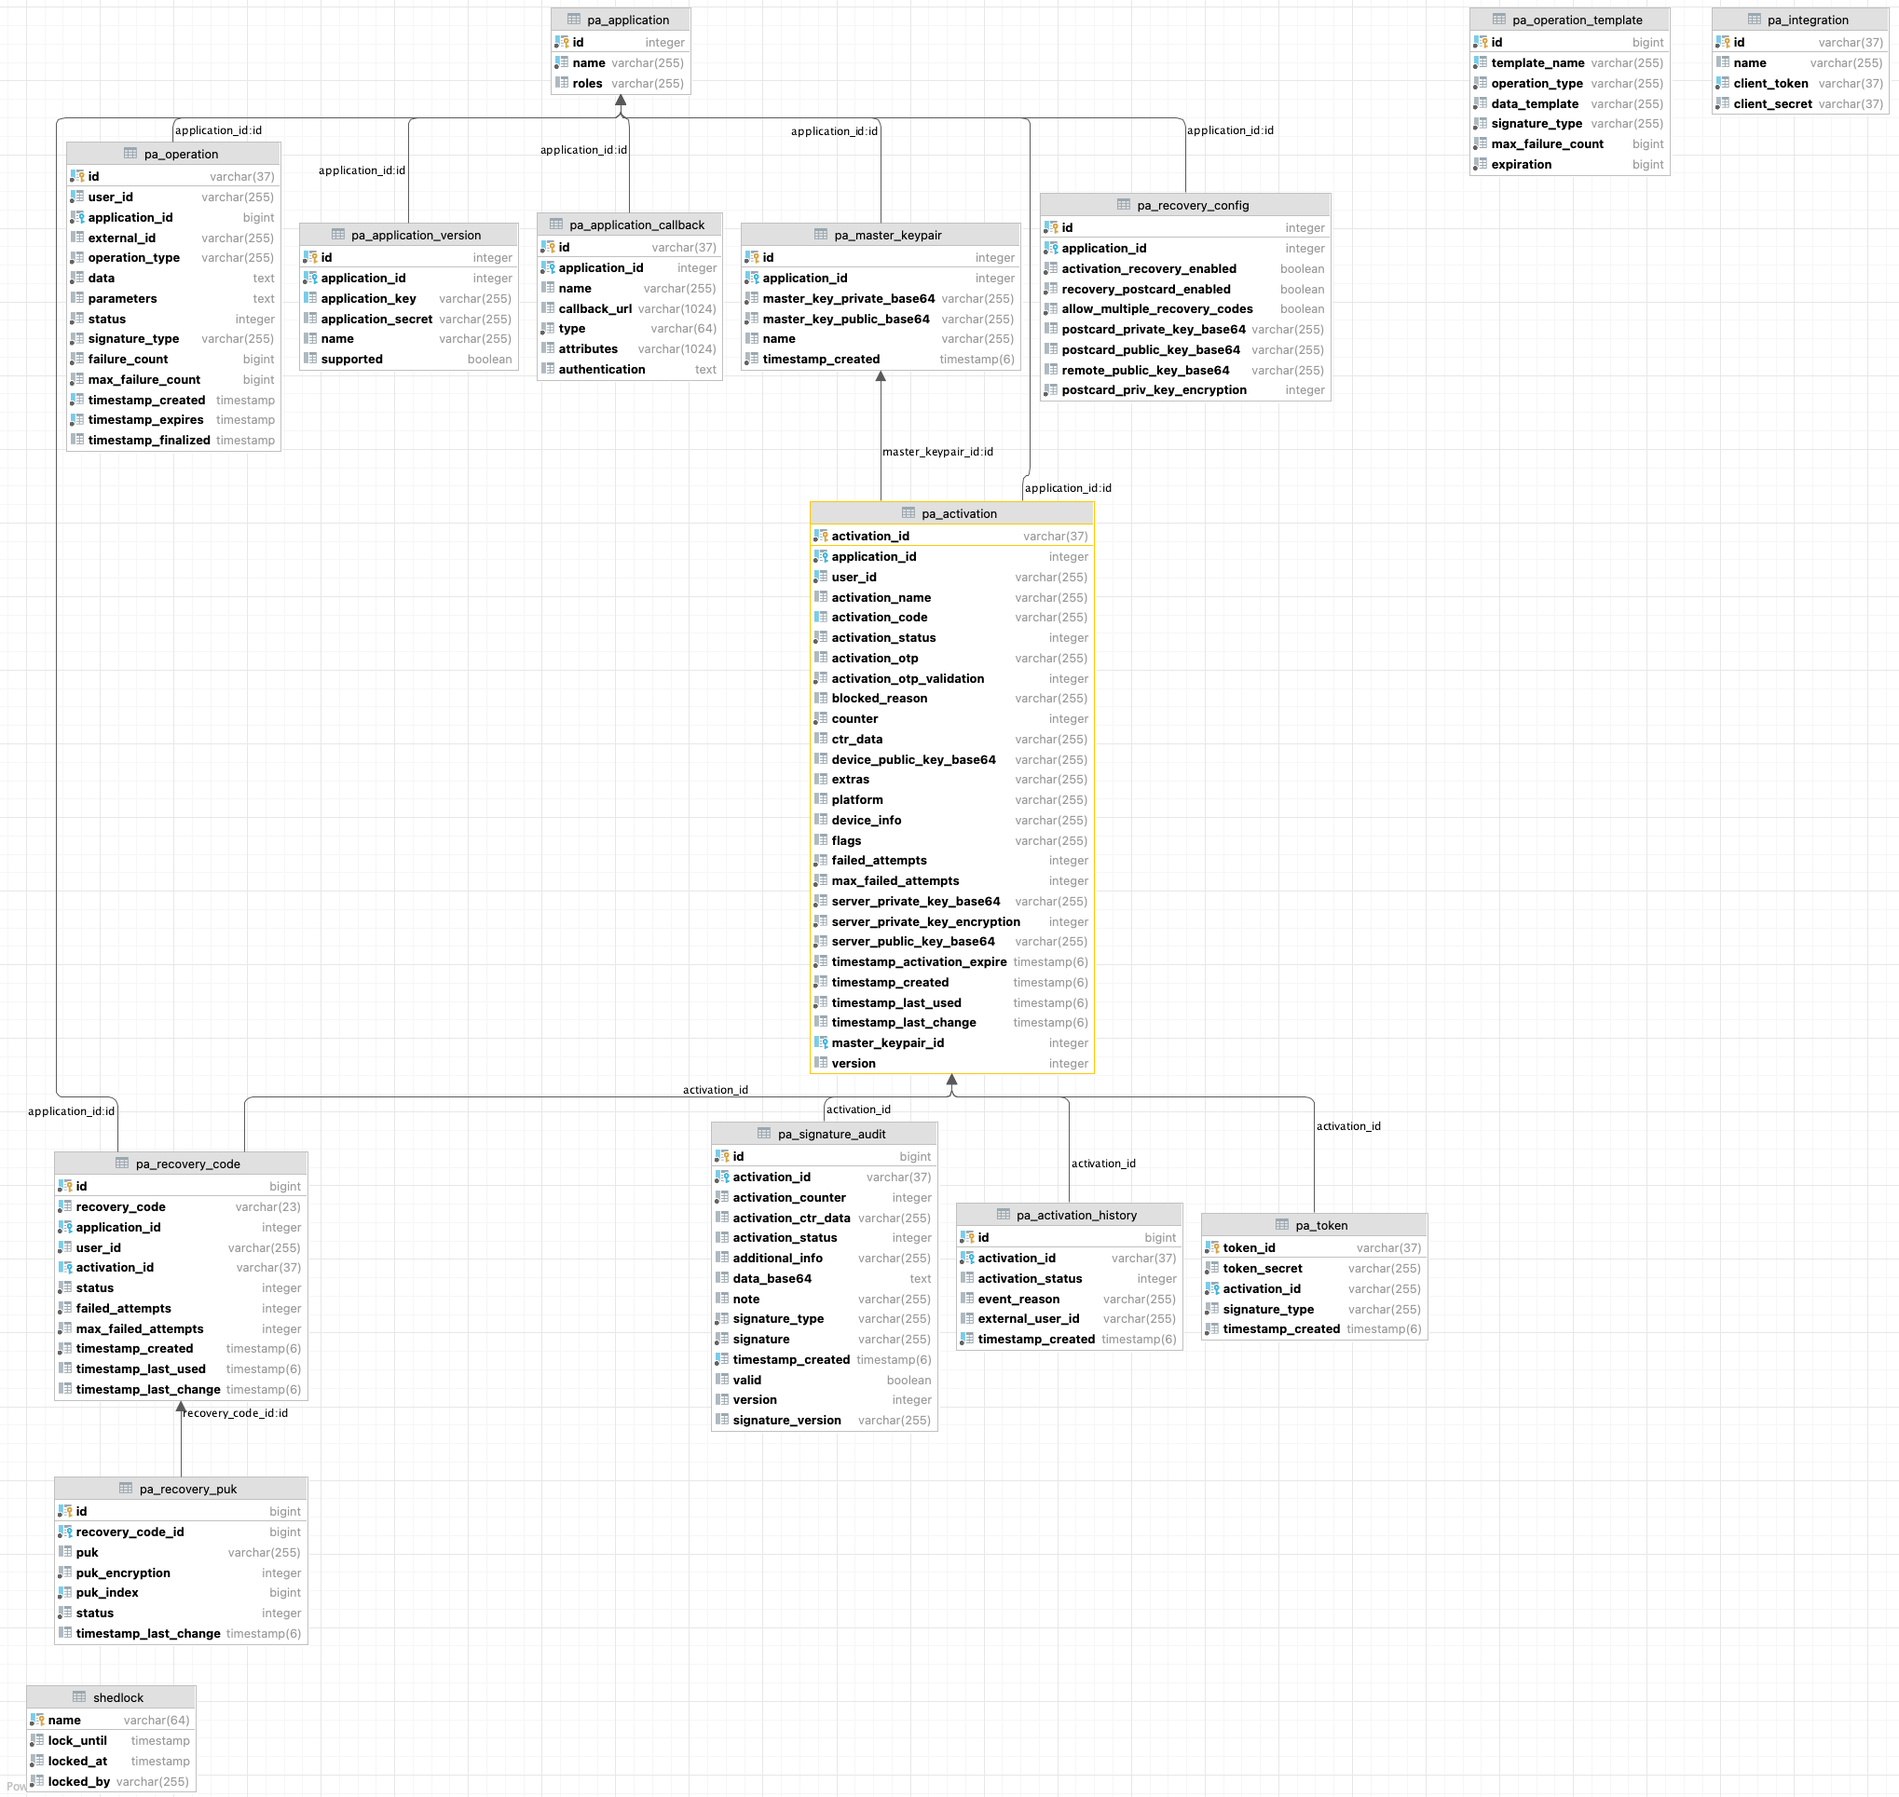
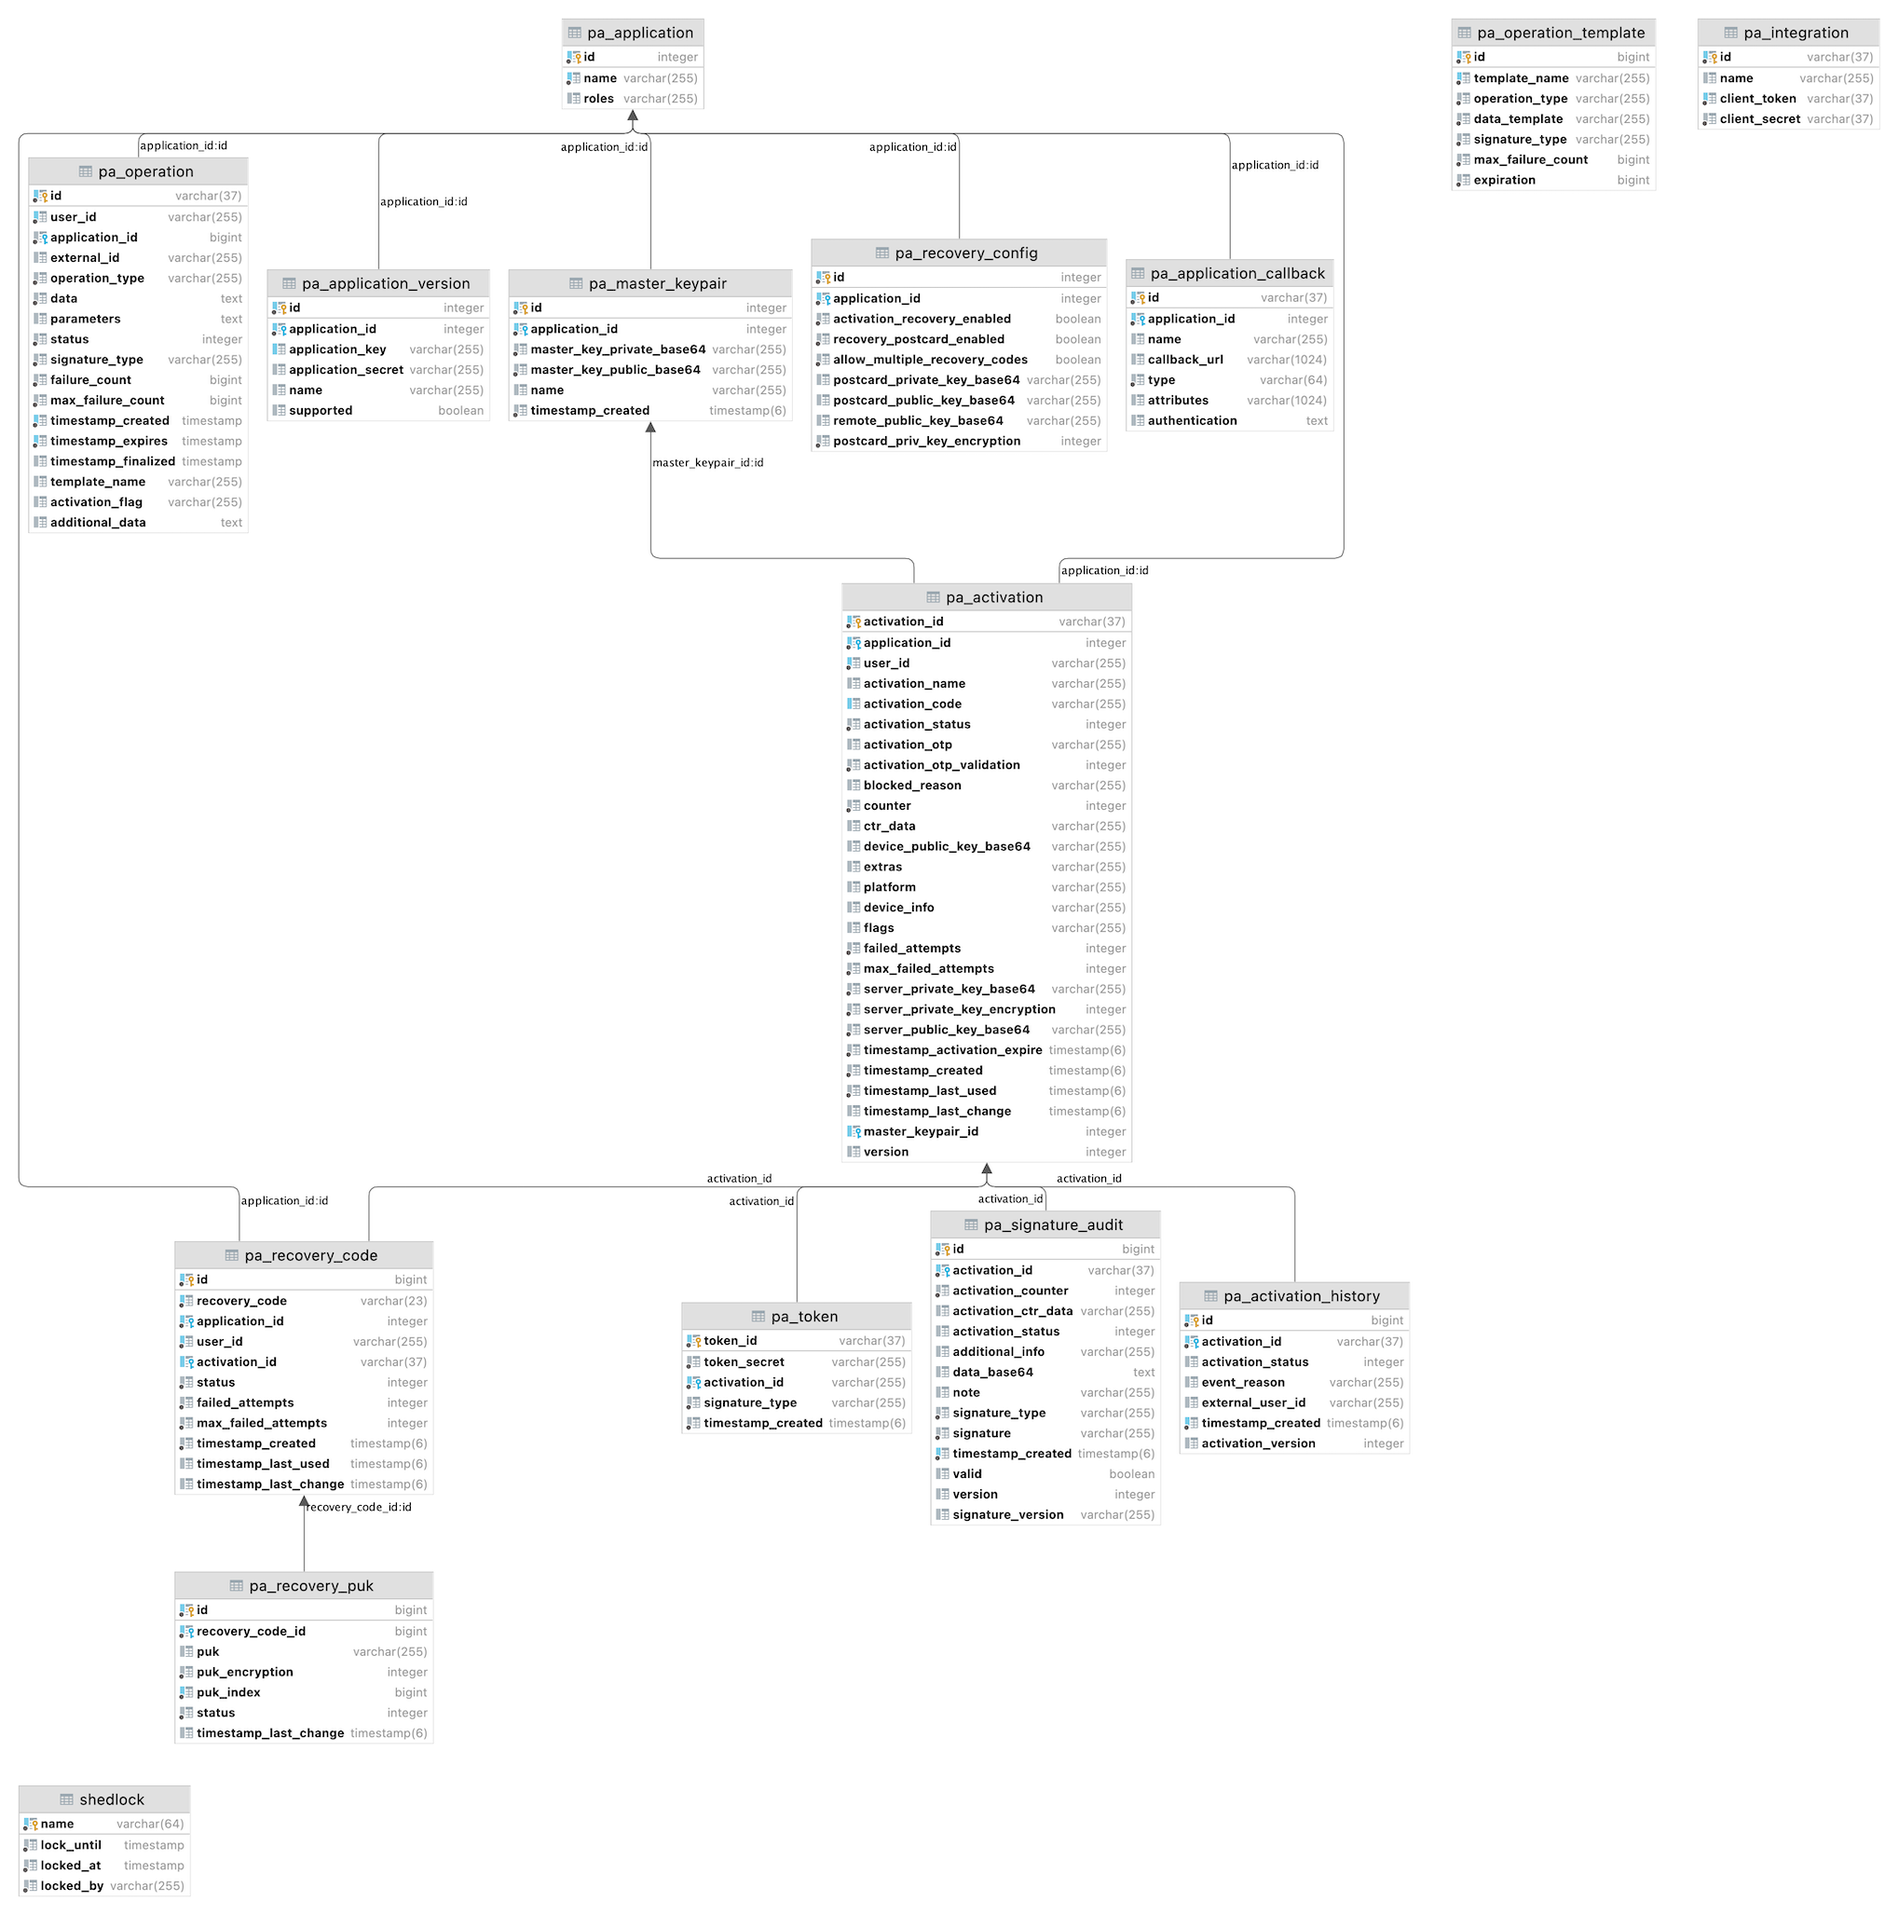
Add audit of the activation version in table pa_activation_history
Fixes #501

diff --git a/powerauth-java-server/src/main/java/io/getlime/security/powerauth/app/server/database/model/entity/ActivationHistoryEntity.java b/powerauth-java-server/src/main/java/io/getlime/security/powerauth/app/server/database/model/entity/ActivationHistoryEntity.java
@@ -60,7 +60,13 @@ public class ActivationHistoryEntity implements Serializable {
     private Date timestampCreated;
 
     /**
-     * Default constructor.
+     * Current {@link ActivationRecordEntity#getVersion()} specified whenever an activation history event is audited.
+     */
+    @Column(name = "activation_version")
+    private Integer activationVersion;
+
+    /**
+     * No-arg constructor.
      */
     public ActivationHistoryEntity() {
     }
@@ -71,14 +77,21 @@ public class ActivationHistoryEntity implements Serializable {
      * @param id                Signature audit item record ID.
      * @param activation        Associated activation, or null of no related activation was found.
      * @param activationStatus  Activation status at the time of signature computation attempt.
-     * @param timestampCreated  Created timestapm.
+     * @param timestampCreated  Created timestamp.
+     * @param activationVersion Activation version.
      */
-    public ActivationHistoryEntity(Long id, ActivationRecordEntity activation, ActivationStatus activationStatus, Date timestampCreated) {
-        super();
+    public ActivationHistoryEntity(
+            final Long id,
+            final ActivationRecordEntity activation,
+            final ActivationStatus activationStatus,
+            final Date timestampCreated,
+            final Integer activationVersion) {
+
         this.id = id;
         this.activation = activation;
         this.activationStatus = activationStatus;
         this.timestampCreated = timestampCreated;
+        this.activationVersion = activationVersion;
     }
 
     /**
@@ -185,6 +198,22 @@ public class ActivationHistoryEntity implements Serializable {
         this.timestampCreated = timestampCreated;
     }
 
+    /**
+     * Get PowerAuth protocol major version for activation.
+     * @return PowerAuth protocol major version.
+     */
+    public Integer getActivationVersion() {
+        return activationVersion;
+    }
+
+    /**
+     * Set PowerAuth protocol major version for activation.
+     * @param version PowerAuth protocol major version.
+     */
+    public void setActivationVersion(Integer version) {
+        this.activationVersion = version;
+    }
+
     @Override
     public int hashCode() {
         int hash = 7;
@@ -193,6 +222,7 @@ public class ActivationHistoryEntity implements Serializable {
         hash = 23 * hash + Objects.hashCode(this.eventReason);
         hash = 23 * hash + Objects.hashCode(this.externalUserId);
         hash = 23 * hash + Objects.hashCode(this.timestampCreated);
+        hash = 23 * hash + Objects.hashCode(this.activationVersion);
         return hash;
     }
 
@@ -220,14 +250,18 @@ public class ActivationHistoryEntity implements Serializable {
         if (!Objects.equals(this.externalUserId, other.externalUserId)) {
             return false;
         }
-        return Objects.equals(this.timestampCreated, other.timestampCreated);
+        if (!Objects.equals(this.timestampCreated, other.timestampCreated)) {
+            return false;
+        }
+        return Objects.equals(this.activationVersion, other.activationVersion);
     }
 
     @Override
     public String toString() {
         return "ActivationHistoryEntity{" +
                 "id=" + id + ", activation=" + activation + ", activationStatus=" + activationStatus +
-                ", eventReason=" + eventReason + ", externalUserId=" + externalUserId + ", timestampCreated=" + timestampCreated + '}';
+                ", eventReason=" + eventReason + ", externalUserId=" + externalUserId + ", timestampCreated=" + timestampCreated +
+                ", version=" + activationVersion +'}';
     }
 
 }

diff --git a/powerauth-java-server/src/main/java/io/getlime/security/powerauth/app/server/service/behavior/tasks/v3/UpgradeServiceBehavior.java b/powerauth-java-server/src/main/java/io/getlime/security/powerauth/app/server/service/behavior/tasks/v3/UpgradeServiceBehavior.java
@@ -27,6 +27,7 @@ import com.wultra.security.powerauth.client.v3.StartUpgradeResponse;
 import io.getlime.security.powerauth.app.server.converter.v3.ServerPrivateKeyConverter;
 import io.getlime.security.powerauth.app.server.database.RepositoryCatalogue;
 import io.getlime.security.powerauth.app.server.database.model.ActivationStatus;
+import io.getlime.security.powerauth.app.server.database.model.AdditionalInformation;
 import io.getlime.security.powerauth.app.server.database.model.EncryptionMode;
 import io.getlime.security.powerauth.app.server.database.model.ServerPrivateKey;
 import io.getlime.security.powerauth.app.server.database.model.entity.ActivationRecordEntity;
@@ -75,16 +76,24 @@ public class UpgradeServiceBehavior {
     private final KeyConvertor keyConvertor = new KeyConvertor();
     private final PowerAuthServerKeyFactory powerAuthServerKeyFactory = new PowerAuthServerKeyFactory();
     private final ObjectMapper objectMapper;
+    private final ActivationHistoryServiceBehavior activationHistoryServiceBehavior;
 
     // Prepare logger
     private static final Logger logger = LoggerFactory.getLogger(UpgradeServiceBehavior.class);
 
     @Autowired
-    public UpgradeServiceBehavior(RepositoryCatalogue repositoryCatalogue, LocalizationProvider localizationProvider, ServerPrivateKeyConverter serverPrivateKeyConverter, ObjectMapper objectMapper) {
+    public UpgradeServiceBehavior(
+            final RepositoryCatalogue repositoryCatalogue,
+            final LocalizationProvider localizationProvider,
+            final ServerPrivateKeyConverter serverPrivateKeyConverter,
+            final ObjectMapper objectMapper,
+            final ActivationHistoryServiceBehavior activationHistoryServiceBehavior) {
+
         this.repositoryCatalogue = repositoryCatalogue;
         this.localizationProvider = localizationProvider;
         this.serverPrivateKeyConverter = serverPrivateKeyConverter;
         this.objectMapper = objectMapper;
+        this.activationHistoryServiceBehavior = activationHistoryServiceBehavior;
     }
 
     /**
@@ -276,11 +285,11 @@ public class UpgradeServiceBehavior {
         // Upgrade activation to version 3
         activation.setVersion(3);
 
-        // Save update activation
-        repositoryCatalogue.getActivationRepository().save(activation);
+        activationHistoryServiceBehavior.saveActivationAndLogChange(activation, null, AdditionalInformation.ACTIVATION_VERSION_CHANGED);
 
         final CommitUpgradeResponse response = new CommitUpgradeResponse();
         response.setCommitted(true);
         return response;
     }
+
 }

diff --git a/powerauth-java-server/src/main/java/io/getlime/security/powerauth/app/server/database/model/AdditionalInformation.java b/powerauth-java-server/src/main/java/io/getlime/security/powerauth/app/server/database/model/AdditionalInformation.java
@@ -33,4 +33,17 @@ public class AdditionalInformation {
     public static final String ACTIVATION_OTP_FAILED_ATTEMPT = "OTP_FAILED_ATTEMPT";
     public static final String ACTIVATION_OTP_MAX_FAILED_ATTEMPTS = "OTP_MAX_FAILED_ATTEMPTS";
     public static final String ACTIVATION_OTP_VALUE_UPDATE = "OTP_VALUE_UPDATE";
+
+    /**
+     * For activation history audit.
+     * <ul>
+     * <li>during activation commit ({@code null} version -&gt; specific version)</li>
+     * <li>during upgrade commit (version changes to a newer one)</li>
+     * </ul>
+     */
+    public static final String ACTIVATION_VERSION_CHANGED = "ACTIVATION_VERSION_CHANGED";
+
+    private AdditionalInformation() {
+        throw new IllegalStateException("Should not be instantiated");
+    }
 }

diff --git a/powerauth-java-server/src/main/java/io/getlime/security/powerauth/app/server/service/behavior/tasks/v3/ActivationServiceBehavior.java b/powerauth-java-server/src/main/java/io/getlime/security/powerauth/app/server/service/behavior/tasks/v3/ActivationServiceBehavior.java
@@ -945,7 +945,7 @@ public class ActivationServiceBehavior {
             String mac = BaseEncoding.base64().encode(responseCryptogram.getMac());
 
             // Persist activation report and notify listeners
-            activationHistoryServiceBehavior.saveActivationAndLogChange(activation);
+            activationHistoryServiceBehavior.saveActivationAndLogChange(activation, null, AdditionalInformation.ACTIVATION_VERSION_CHANGED);
             callbackUrlBehavior.notifyCallbackListenersOnActivationChange(activation);
 
             // Generate encrypted response

diff --git a/powerauth-java-server/src/main/java/io/getlime/security/powerauth/app/server/service/behavior/tasks/v3/ActivationHistoryServiceBehavior.java b/powerauth-java-server/src/main/java/io/getlime/security/powerauth/app/server/service/behavior/tasks/v3/ActivationHistoryServiceBehavior.java
@@ -92,6 +92,7 @@ public class ActivationHistoryServiceBehavior {
         }
         activationHistoryEntity.setExternalUserId(externalUserId);
         activationHistoryEntity.setTimestampCreated(changeTimestamp);
+        activationHistoryEntity.setActivationVersion(activation.getVersion());
         activation.getActivationHistory().add(activationHistoryEntity);
         // ActivationHistoryEntity is persisted together with activation using Cascade.ALL on ActivationEntity
         activationRepository.save(activation);

diff --git a/docs/Database-Structure.md b/docs/Database-Structure.md
@@ -345,7 +345,8 @@ CREATE TABLE "pa_activation_history"
     "activation_status"  INTEGER,
     "event_reason"       VARCHAR(255),
     "external_user_id"   VARCHAR(255),
-    "timestamp_created"  TIMESTAMP (6) NOT NULL
+    "timestamp_created"  TIMESTAMP (6) NOT NULL,
+    "activation_version" INTEGER
 );
 ```
 
@@ -359,6 +360,7 @@ CREATE TABLE "pa_activation_history"
 | event_reason | VARCHAR(255) | - | Reason why activation was changed. |
 | external_user_id | VARCHAR(255) | - | External user ID of user who caused change of the activation (e.g. banker user ID). In case the value is null the change was caused by the user associated with the activation. |
 | timestamp_created | DATETIME | - | Timestamp of the record creation. |
+| activation_version | INT(2) | - | Activation version |
 <!-- end -->
 
 <!-- begin database table pa_recovery_code -->

diff --git a/docs/PowerAuth-Server-1.3.0.md b/docs/PowerAuth-Server-1.3.0.md
@@ -180,3 +180,26 @@ CREATE INDEX audit_param_timestamp ON audit_param (timestamp_created);
 CREATE INDEX audit_param_key ON audit_param (param_key);
 CREATE FULLTEXT INDEX audit_param_value ON audit_param (param_value);
 ```
+
+
+## Create New Column in Activation History Table
+
+The `pa_activation_history` table was updated to include activation version.
+
+### Oracle
+
+```sql
+ALTER TABLE PA_ACTIVATION_HISTORY ADD activation_version NUMBER(2,0);
+```
+
+### PostgreSQL
+
+```sql
+ALTER TABLE pa_activation_history ADD activation_version INTEGER;
+```
+
+### MySQL
+
+```sql
+ALTER TABLE pa_activation_history ADD activation_version int(2);
+```
